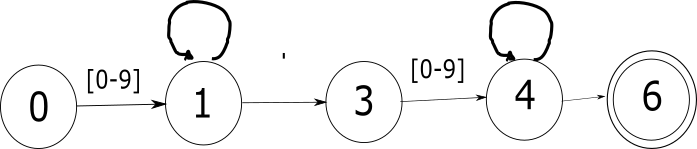
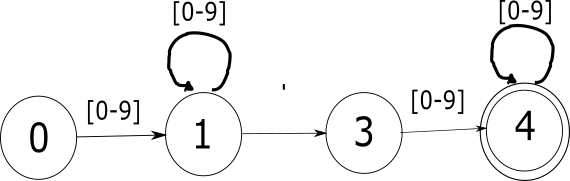
Exercicio 06 alteração

diff --git a/exercicios/exercicio06/readme.md b/exercicios/exercicio06/readme.md
@@ -9,11 +9,11 @@ Considere a representação dos números reais como duas partes inteiras separad
 
 1. Uma expressão regular que represente os números reais na notação apresentada.
 
-    [0-9]+ . [0-9]*
+    [0-9]+ .? [0-9]*
 
 2. Um diagrama de estados que indique a aceitação ou não de um número real na notação apresentada.
 
-    !['diagramaEstado'](diagramaEstado.png)
+    !['diagramaEstado'](./diagramaEstado.png)
 
 ### Questão 02
 
